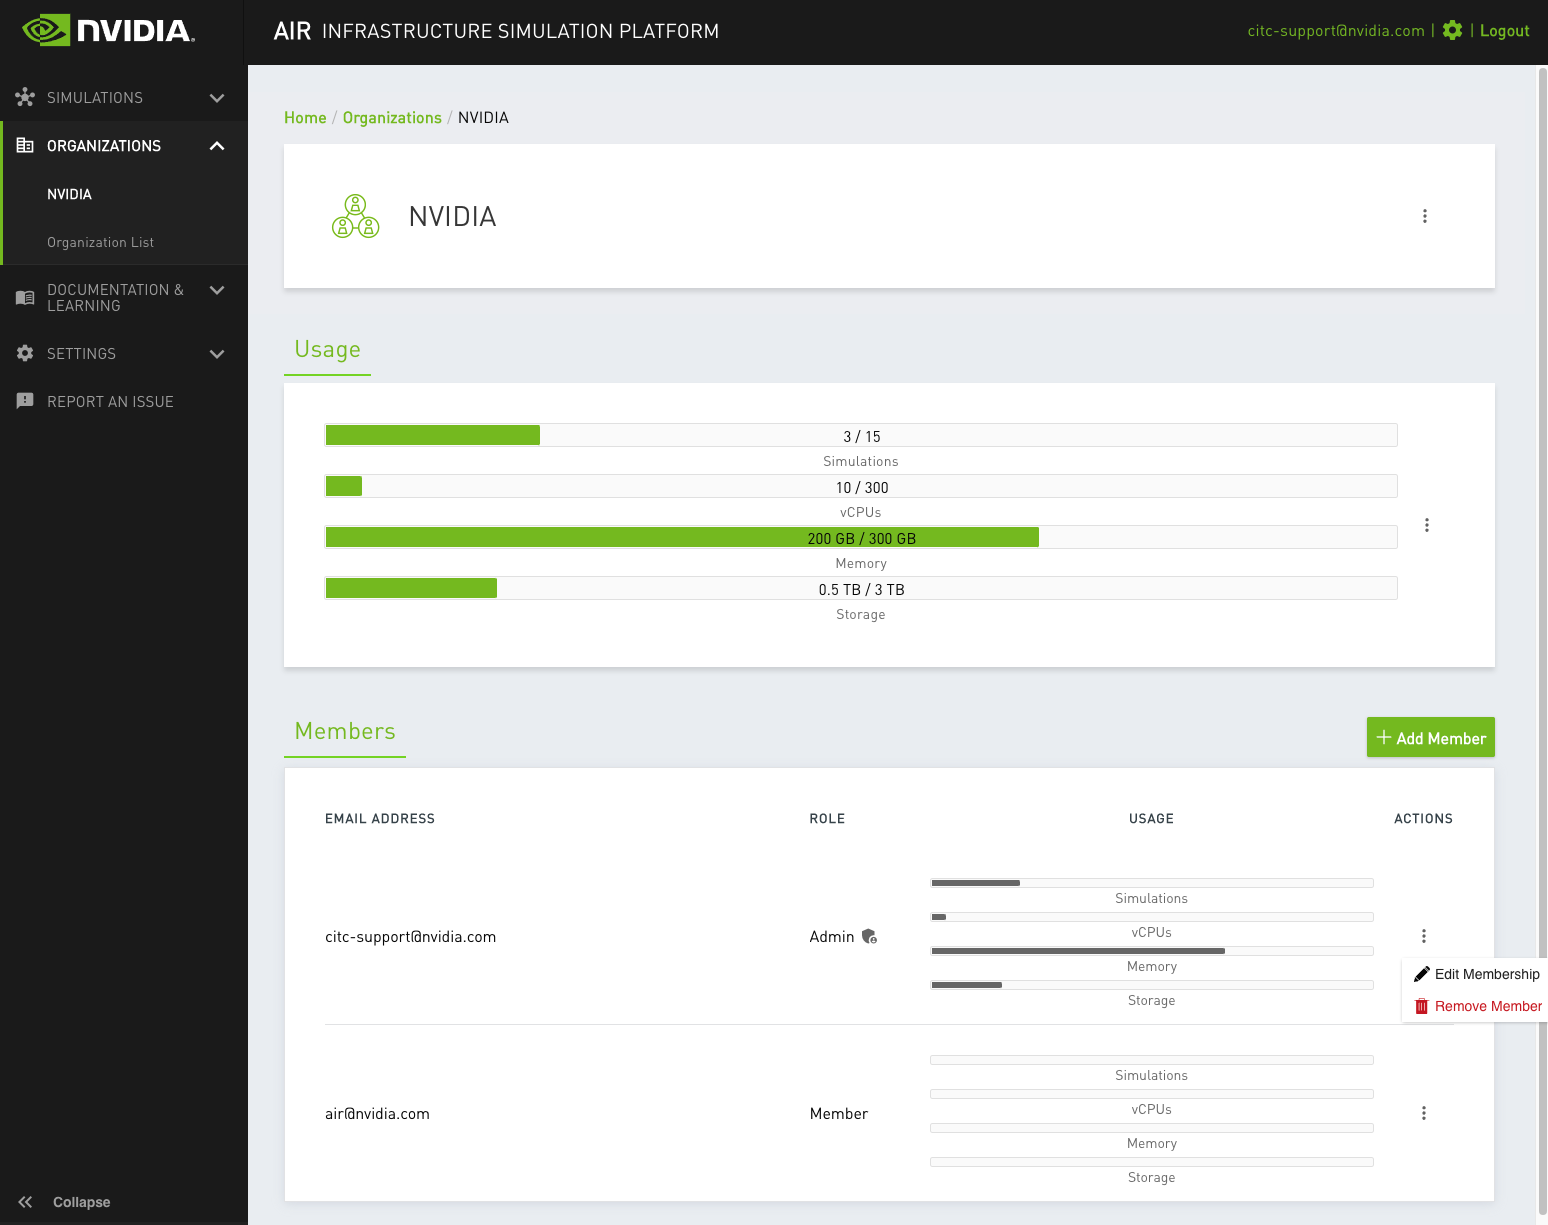
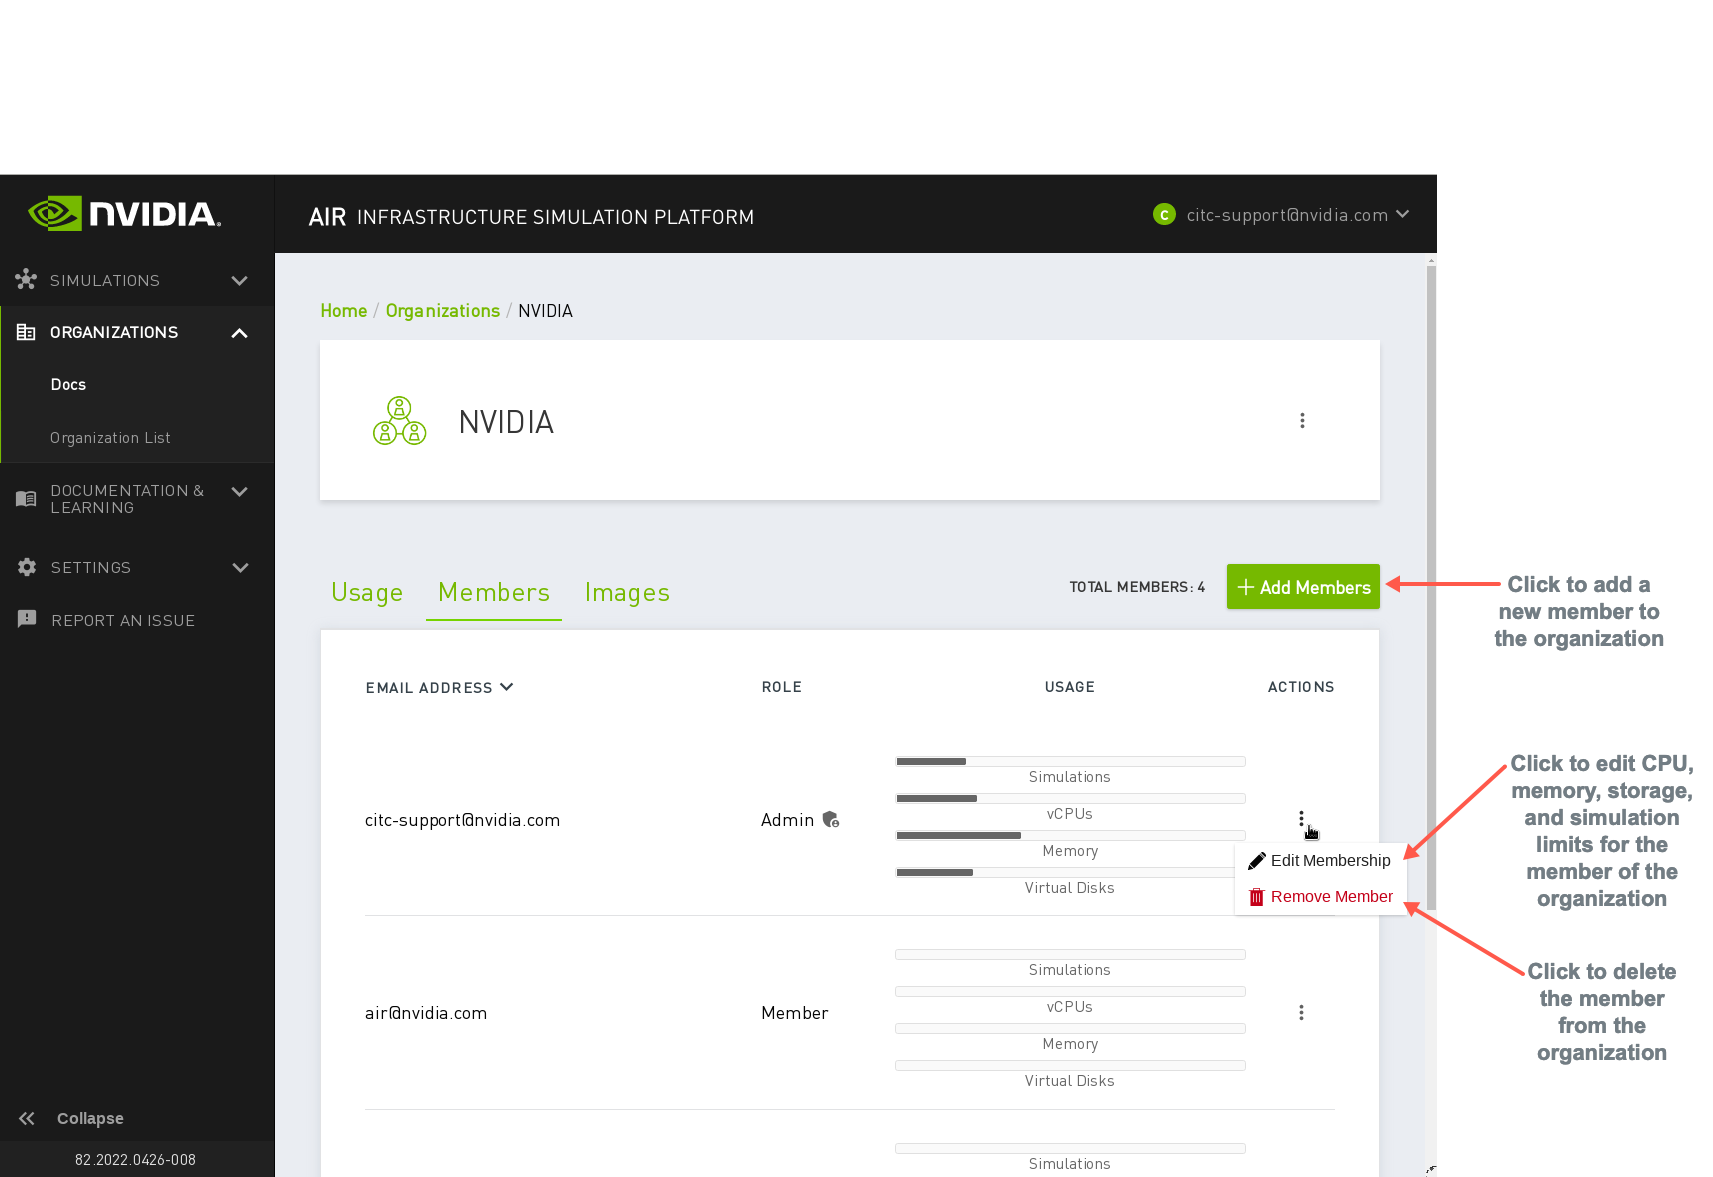
updated screenshots and reorg

diff --git a/content/guides/nvidia-air/Organizations.md b/content/guides/nvidia-air/Organizations.md
@@ -7,7 +7,7 @@ product: NVIDIA Air
 <!-- vale off -->
 NVIDIA Air supports collaboration so that you can share simulations with your colleagues in an organization. To join an organization, contact your Organization Administrator or your NVIDIA sales team. If you do not know who your Organization Administrator is, reach out to citc-support@nvidia.com.
 <!-- vale on -->
-## Assign Organizations
+## Assign an Organization to Your Simulation
 
 You can assign each simulation to an organization in which you are a member. All members of the organization can view all assigned simulations.
 
@@ -17,30 +17,48 @@ In the simulation list, the **ORGANIZATION** column shows the organization to wh
 
 <div style="margin-top: 20px;"></div>
 
-To assign a simulation to an organization, click the Edit icon to open the **EDIT SIMULATION** window. Select the organization from the **ORGANIZATION** dropdown menu.
+To assign a simulation to an organization, click the Edit icon to open the **EDIT SIMULATION** dialog. Select the organization from the **ORGANIZATIONS** dropdown menu.
 
-{{<img src="/images/guides/nvidia-air/EditSim.png">}}
+{{<img src="/images/guides/nvidia-air/EditSim.png" width="400px">}}
 
 ## Manage Organizations
 
-As an Organization Administrator, you can view details about each organization, such the list of current members, their roles, and the resource utilization for all simulations in the organization.
+If you are an Organization Administrator, you can create and manage organizations, and view details about each organization, such as the list of current members and their roles. You can also view the resource utilization for all simulations in the organization.
 
-{{<img src="/images/guides/nvidia-air/OrgDetails.png">}}
+To see the list of current organizations, click **Organization List** from the **ORGANIZATION** dropdown in the left pane.
+
+{{<img src="/images/guides/nvidia-air/OrgList.png">}}
 
 <div style="margin-top: 20px;"></div>
 
-To add a new member, click the **Add Member** button and enter the email address of each new member.
+On the Organizations page, you can create new organizations, and drill down to see details and manage a specifc organization.
 
-{{<img src="/images/guides/nvidia-air/AddOrgMember.png">}}
+### Create an Organization
 
-To remove a member, select **Remove Member** from the actions menu. Removing a member from an organization also moves all their simulations out of the organization.
+To create an organization, click the **Create Organization** button to open the Create Organization dialog.
 
-## Delete Organizations
+{{<img src="/images/guides/nvidia-air/AddOrg.png">}}
 
-To delete an organization, choose the **Delete** option from the actions menu.
+Provide a name for the organization and the email address of each member you want to add. If you want a member to to be an administrator, click **Organization Admin** so that the button turns green.
+
+### Delete an Organization
+
+To delete an organization, select the **Delete** option from the actions menu.
 
 {{<img src="/images/guides/nvidia-air/DeleteOrg.png">}}
 
 {{%notice info%}}
 Deleting an organization also deletes all the simulations and resources assigned to it.
 {{%/notice%}}
+
+### View Details and Manage Members
+
+To view details about each organization and to manage members, click the organization link in the Organization column to open the organization details page.
+
+{{<img src="/images/guides/nvidia-air/OrgDetails.png">}}
+
+<div style="margin-top: 20px;"></div>
+
+- To add a new member, click the **Members** link, then click the **Add Member** button. In the Add Members dialog, provide the email address of the member you want to add. If you want the member to to be an administrator, click **Organization Admin** so that the button turns green.
+- To edit resource limits for a member such as CPU, memory, and storage and the number of simulations allowed, select **Edit Membership** from the actions menu.
+- To remove a member, select **Remove Member** from the actions menu. Removing a member from an organization also moves all their simulations out of the organization.
